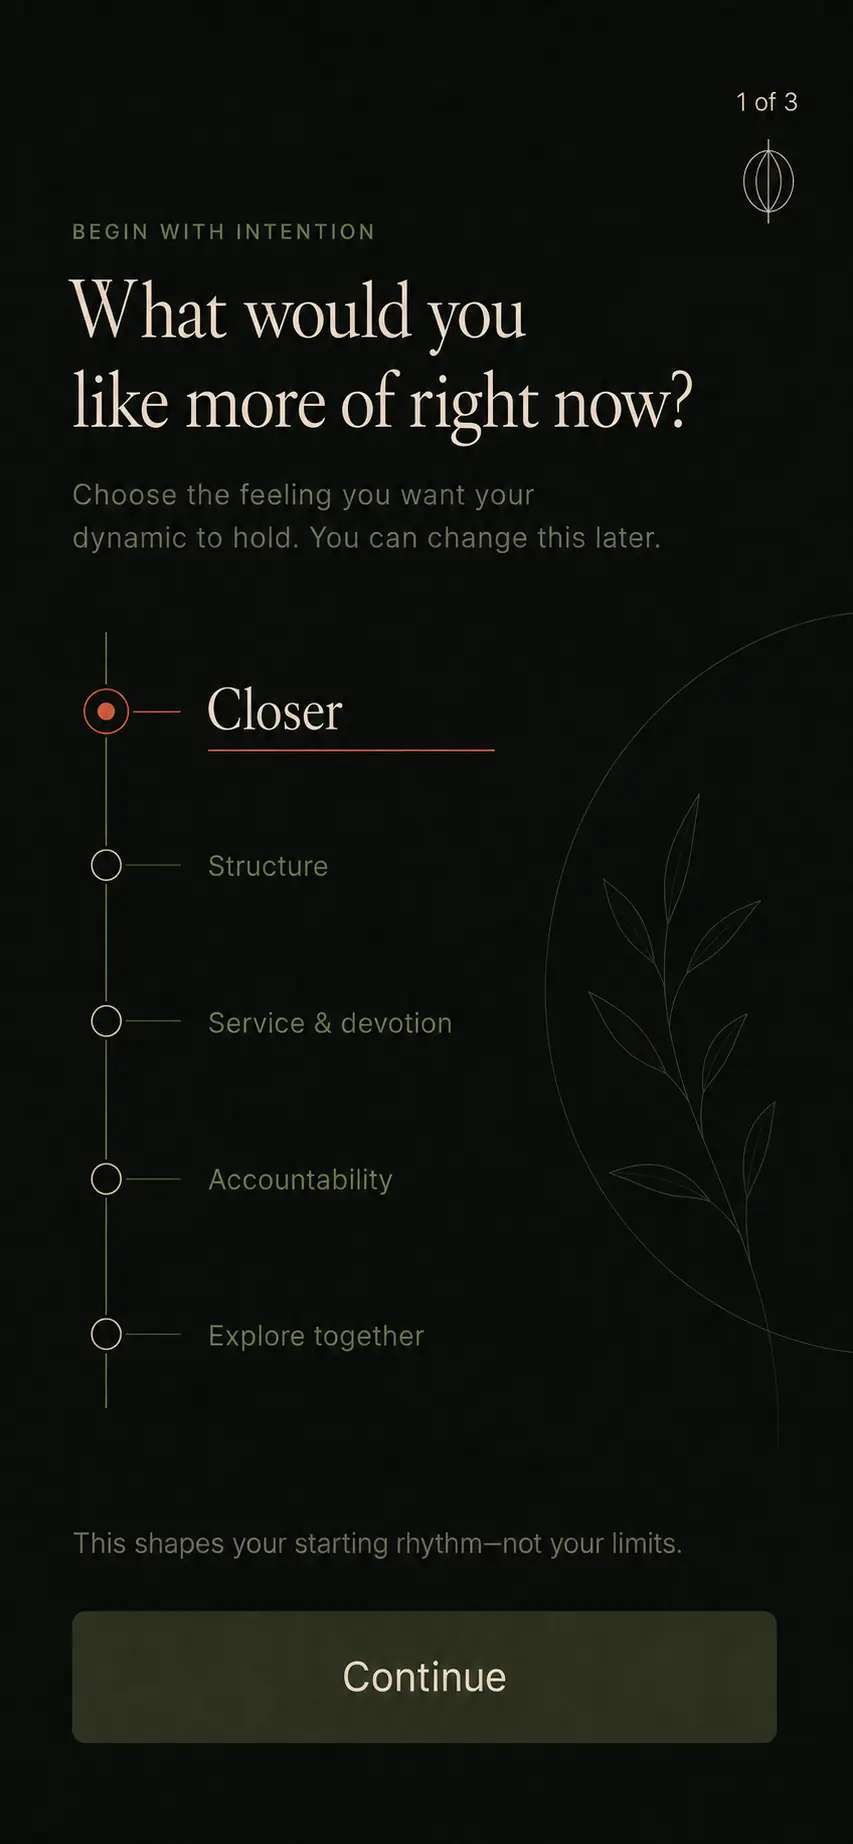
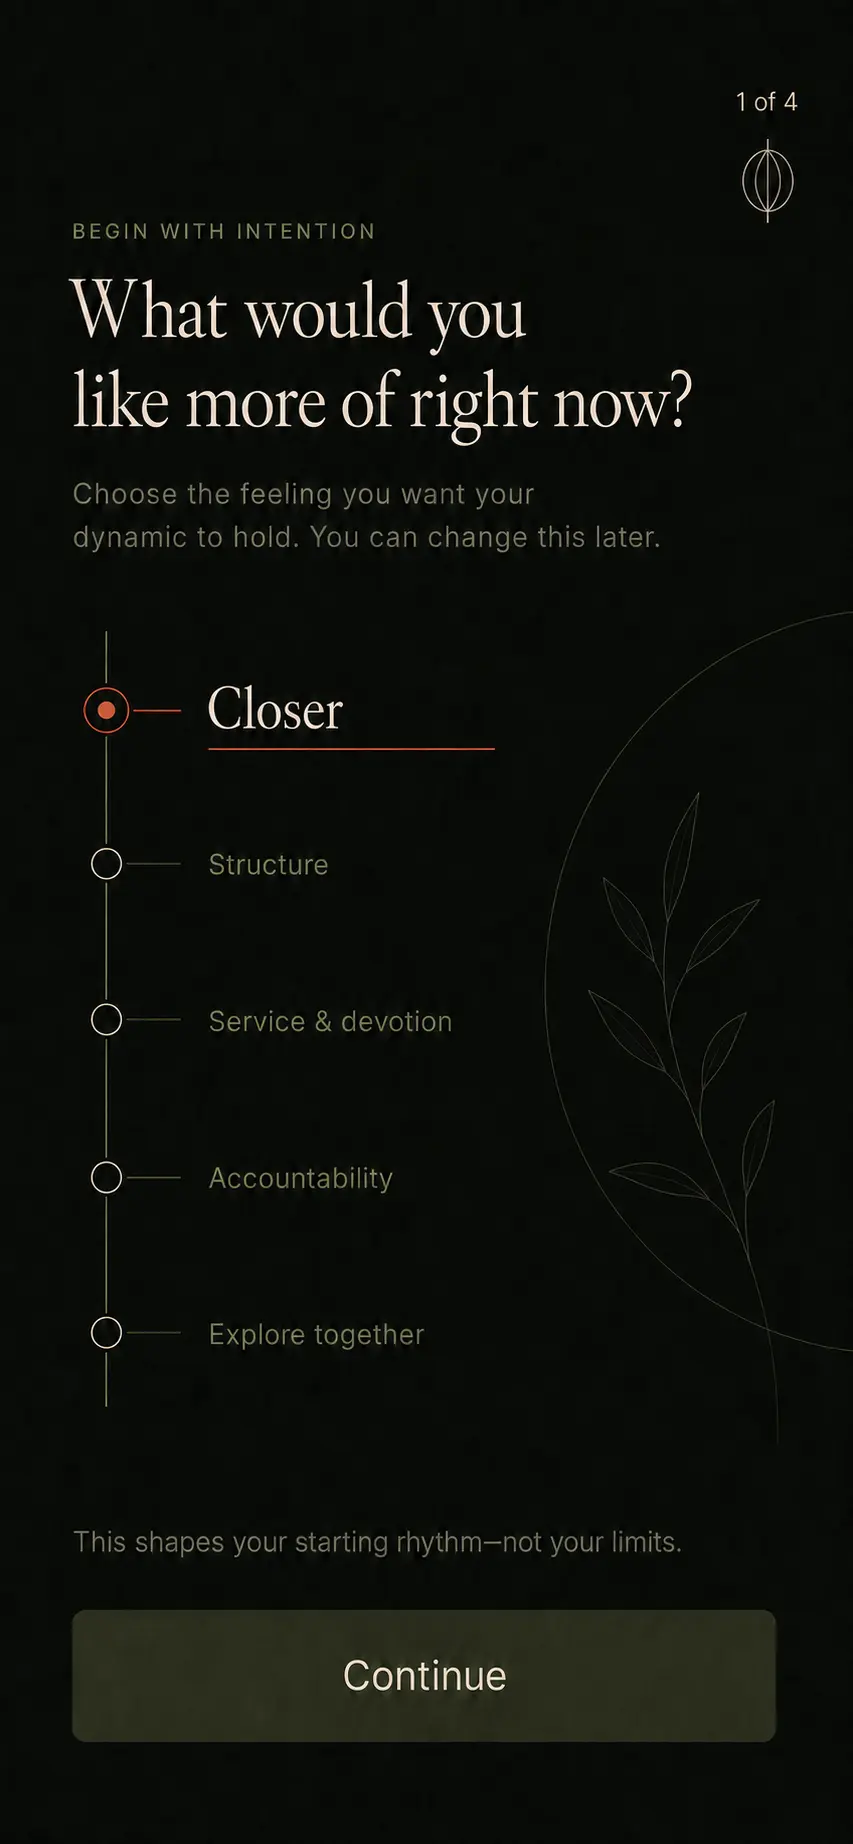
design: add activation setup and starter rhythm candidates

diff --git a/design/screens/SCR-12-relationship-foundation/screen.md b/design/screens/SCR-12-relationship-foundation/screen.md
@@ -1,4 +1,4 @@
-# SCR-12 — Relationship Foundation
+# SCR-12 — Starter Rhythm
 
 ## Metadata
 
@@ -6,11 +6,14 @@
 |---|---|
 | Screen ID | `SCR-12` |
 | Revision | `1` |
+| Candidate revision | `2 — approval pending` |
 | Release tier | Core Beta |
 | Platforms | Android |
 | Disposition | `replace_or_merge` |
 | Build gate | `blocked_alignment_required` |
-| Visual reference | [`preview.webp`](preview.webp) |
+| Released legacy reference | [`preview.webp`](preview.webp) |
+| Candidate preview | [`candidates/rev-2/preview.webp`](candidates/rev-2/preview.webp) |
+| Candidate lossless source | [`candidates/rev-2/source.png`](candidates/rev-2/source.png) |
 | Preserved source | `03 Pairing Consent and Foundation/12-relationship-foundation.webp` |
 
 ## 1. Product contract
@@ -31,6 +34,10 @@ Product references now point to the migrated CURRENT v2 contracts. This package 
 
 ## 2. UI contract
 
+- Candidate revision 2 replaces principles/governance with a three-part editorial rhythm score: 1 Ritual + 1 Expectation + 1 Check-in.
+- Each item can be replaced without rebuilding the whole setup; a second Expectation remains optional.
+- The continuous numbered ledger makes the three items feel like one intentional rhythm, not a checklist or card dashboard.
+
 - Reference viewport: **390 × 844 logical pixels**; source preview is 853 × 1844 pixels.
 - Visual direction: **V5 Warm Authority / Quiet Authority**.
 - Palette, type, spacing and component values must resolve through `design/tokens/` and `design/system/`.
@@ -44,7 +51,7 @@ Product references now point to the migrated CURRENT v2 contracts. This package 
 
 | State | Product rule | UI requirement | Status |
 |---|---|---|---|
-| Default | TBD | Match approved hierarchy after behavior alignment | blocked |
+| Default | Use candidate revision 2 after approval | Three-part starter rhythm | candidate |
 | Loading | TBD | Skeleton/progress must preserve privacy and layout stability | blocked |
 | Empty | TBD | Explain next safe action without invented urgency | blocked |
 | Error and retry | TBD | Recovery action and retained data must be explicit | blocked |
@@ -57,6 +64,8 @@ Product references now point to the migrated CURRENT v2 contracts. This package 
 | Asset ID | Purpose | Registry | Status |
 |---|---|---|---|
 | `emblem.ritual.evening` | Resolve purpose from the approved visual and asset registry | `manifests/assets.json` | planned — SVG master required |
+| `mark.partner-bond` | Expectation relationship mark | `manifests/assets.json` | planned — SVG master required |
+| `mark.check-in` | Daily Check-in mark | `manifests/assets.json` | planned — SVG master required |
 
 Bundled fonts are under `design/assets/fonts/`. Do not trace, redraw, or embed one-off SVG paths from the preview.
 

diff --git a/design/screens/SCR-08-relationship-structure/screen.md b/design/screens/SCR-08-relationship-structure/screen.md
@@ -1,4 +1,4 @@
-# SCR-08 — Relationship Structure
+# SCR-08 — Minimal Setup · Structure and Context
 
 ## Metadata
 
@@ -6,11 +6,14 @@
 |---|---|
 | Screen ID | `SCR-08` |
 | Revision | `1` |
+| Candidate revision | `2 — approval pending` |
 | Release tier | Core Beta |
 | Platforms | Android |
 | Disposition | `retain_and_align` |
 | Build gate | `blocked_alignment_required` |
-| Visual reference | [`preview.webp`](preview.webp) |
+| Released legacy reference | [`preview.webp`](preview.webp) |
+| Candidate preview | [`candidates/rev-2/preview.webp`](candidates/rev-2/preview.webp) |
+| Candidate lossless source | [`candidates/rev-2/source.png`](candidates/rev-2/source.png) |
 | Preserved source | `02 Role and Pairing Setup/08-relationship-structure.webp` |
 
 ## 1. Product contract
@@ -31,6 +34,10 @@ Product references now point to the migrated CURRENT v2 contracts. This package 
 
 ## 2. UI contract
 
+- Candidate revision 2 makes Light / Steady / Defined a single open-arc control with Steady selected.
+- Long-distance/Together is a secondary context line; timezone and optional boundaries use quieter editorial rows.
+- The candidate intentionally avoids inventing unapproved boundary choices and avoids a settings-card stack.
+
 - Reference viewport: **390 × 844 logical pixels**; source preview is 853 × 1844 pixels.
 - Visual direction: **V5 Warm Authority / Quiet Authority**.
 - Palette, type, spacing and component values must resolve through `design/tokens/` and `design/system/`.
@@ -44,7 +51,7 @@ Product references now point to the migrated CURRENT v2 contracts. This package 
 
 | State | Product rule | UI requirement | Status |
 |---|---|---|---|
-| Default | TBD | Match approved hierarchy after behavior alignment | blocked |
+| Default | Use candidate revision 2 after approval | Structure + context hierarchy | candidate |
 | Loading | TBD | Skeleton/progress must preserve privacy and layout stability | blocked |
 | Empty | TBD | Explain next safe action without invented urgency | blocked |
 | Error and retry | TBD | Recovery action and retained data must be explicit | blocked |
@@ -57,6 +64,8 @@ Product references now point to the migrated CURRENT v2 contracts. This package 
 | Asset ID | Purpose | Registry | Status |
 |---|---|---|---|
 | `mark.partner-bond` | Resolve purpose from the approved visual and asset registry | `manifests/assets.json` | planned — SVG master required |
+| `icon.timezone` | Detected timezone row | `manifests/assets.json` | planned — SVG master required |
+| `icon.boundaries` | Optional boundaries/preferences row | `manifests/assets.json` | planned — SVG master required |
 
 Bundled fonts are under `design/assets/fonts/`. Do not trace, redraw, or embed one-off SVG paths from the preview.
 

diff --git a/design/screens/SCR-07-role-orientation/screen.md b/design/screens/SCR-07-role-orientation/screen.md
@@ -1,4 +1,4 @@
-# SCR-07 — Role Orientation
+# SCR-07 — Minimal Setup · Mode and Starting Role
 
 ## Metadata
 
@@ -6,11 +6,14 @@
 |---|---|
 | Screen ID | `SCR-07` |
 | Revision | `1` |
+| Candidate revision | `2 — approval pending` |
 | Release tier | Core Beta |
 | Platforms | Android |
 | Disposition | `replace_or_merge` |
 | Build gate | `blocked_alignment_required` |
-| Visual reference | [`preview.webp`](preview.webp) |
+| Released legacy reference | [`preview.webp`](preview.webp) |
+| Candidate preview | [`candidates/rev-2/preview.webp`](candidates/rev-2/preview.webp) |
+| Candidate lossless source | [`candidates/rev-2/source.png`](candidates/rev-2/source.png) |
 | Preserved source | `02 Role and Pairing Setup/07-role-orientation.webp` |
 
 ## 1. Product contract
@@ -32,6 +35,10 @@ Product references now point to the migrated CURRENT v2 contracts. This package 
 
 ## 2. UI contract
 
+- Candidate revision 2 uses two connected relationship orbits for With a partner / For myself, followed by a compact horizontal starting-role spectrum.
+- This is deliberately different from Goal Selection's vertical choice axis.
+- Terracotta marks the current selection only; role remains editable and is never presented as consent.
+
 - Reference viewport: **390 × 844 logical pixels**; source preview is 853 × 1844 pixels.
 - Visual direction: **V5 Warm Authority / Quiet Authority**.
 - Palette, type, spacing and component values must resolve through `design/tokens/` and `design/system/`.
@@ -45,7 +52,7 @@ Product references now point to the migrated CURRENT v2 contracts. This package 
 
 | State | Product rule | UI requirement | Status |
 |---|---|---|---|
-| Default | TBD | Match approved hierarchy after behavior alignment | blocked |
+| Default | Use candidate revision 2 after approval | Mode + role selection hierarchy | candidate |
 | Loading | TBD | Skeleton/progress must preserve privacy and layout stability | blocked |
 | Empty | TBD | Explain next safe action without invented urgency | blocked |
 | Error and retry | TBD | Recovery action and retained data must be explicit | blocked |
@@ -58,6 +65,7 @@ Product references now point to the migrated CURRENT v2 contracts. This package 
 | Asset ID | Purpose | Registry | Status |
 |---|---|---|---|
 | `mark.guidance` | Resolve purpose from the approved visual and asset registry | `manifests/assets.json` | planned — SVG master required |
+| `mark.partner-bond` | Selected partner-mode relationship symbol | `manifests/assets.json` | planned — SVG master required |
 
 Bundled fonts are under `design/assets/fonts/`. Do not trace, redraw, or embed one-off SVG paths from the preview.
 

diff --git a/design/coverage/core-beta-coverage.md b/design/coverage/core-beta-coverage.md
@@ -6,8 +6,8 @@ Status: **first reconciliation pass, 2026-08-28**. V5 Warm Authority remains loc
 |---|---|---|---|---|
 | Private entry / auth | `REQ-AUTH-001`, `REQ-TRUST-001` | `SCR-04–06` | retain and align | Magic-link sent/callback, expired session, validation and recovery states. |
 | Goal selection | `REQ-ACT-001`, `FLOW-ACTIVATE-001` | missing | **new screen `SCR-31`** | Outcome-first design before role/configuration. |
-| Minimal setup | `REQ-ACT-002` | `SCR-07`, `SCR-08` | merge/redesign | Goal must precede role; combine Couple/Solo, role preset, structure, boundaries lite and LDR/Together without dense configuration. |
-| Starter Rhythm | `REQ-ACT-003` | `SCR-12` | replace | 1 Ritual + 1 Expectation + 1 Check-in, editable and startable. |
+| Minimal setup | `REQ-ACT-002` | `SCR-07`, `SCR-08` | **rev-2 candidates complete** | Mode/role and structure/context primary candidates exist; still require state, Web adaptation and approval. |
+| Starter Rhythm | `REQ-ACT-003` | `SCR-12` | **rev-2 candidate complete** | 1 Ritual + 1 Expectation + 1 Check-in candidate exists; still requires replace/edit interaction states and approval. |
 | Invite creator | `REQ-INVITE-001` | `SCR-09` | retain + state family | Pending, accepted, expired, revoked, share/copy recovery; Android/Web share differences. |
 | Web Join trust | `REQ-JOIN-001` | `SCR-10`, `SCR-11` | merge/redesign | Inviter, intention, shared/private boundary, leave right, auth return and safe expired/revoked/stale states. |
 | First shared interaction | `REQ-FIRST-001` | partial in `SCR-01/02` | add activation state | Small check-in or starter ritual; no empty success page. |

diff --git a/design/qa/README.md b/design/qa/README.md
@@ -2,3 +2,4 @@
 
 For each approved screen, store the design reference, implementation render, and visual difference evidence. Reference mobile renders use 390 × 844 logical pixels. Texture may use a controlled mask; typography, geometry, copy, SVG shape, state visibility, and interaction hierarchy require strict comparison.
 
+`reference/activation-flow-rev2-board.jpg` is the current four-step setup candidate review board: Goal → Mode/Role → Structure/Context → Starter Rhythm. It is review evidence, not a substitute for each screen's lossless source and contract.

diff --git a/progress/status.md b/progress/status.md
@@ -15,6 +15,7 @@
 - Notion CURRENT v2 overview, Core Beta requirements, flow contracts and domain/state contracts migrated into GitHub
 - Core Beta product × design coverage matrix with four justified new primary surfaces
 - Requirement/flow references and product contracts backfilled across all existing Screen Packages
+- High-fidelity activation candidates completed for Goal, Minimal Setup mode/role, Minimal Setup structure/context and Starter Rhythm
 
 ## Next alignment work
 
